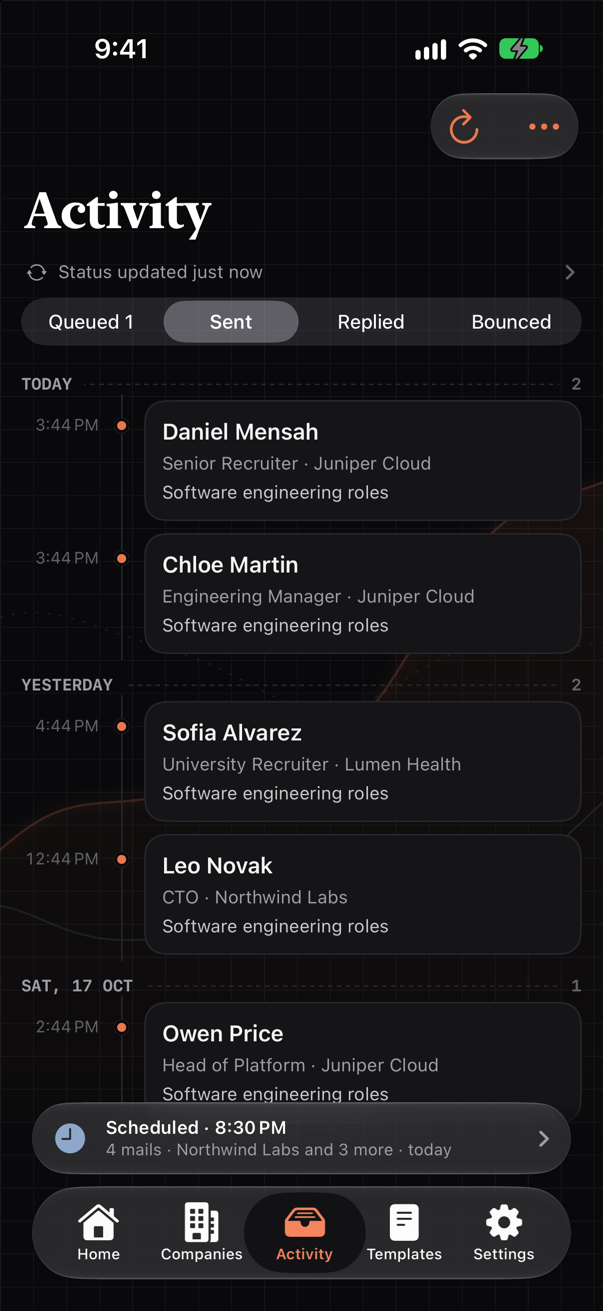
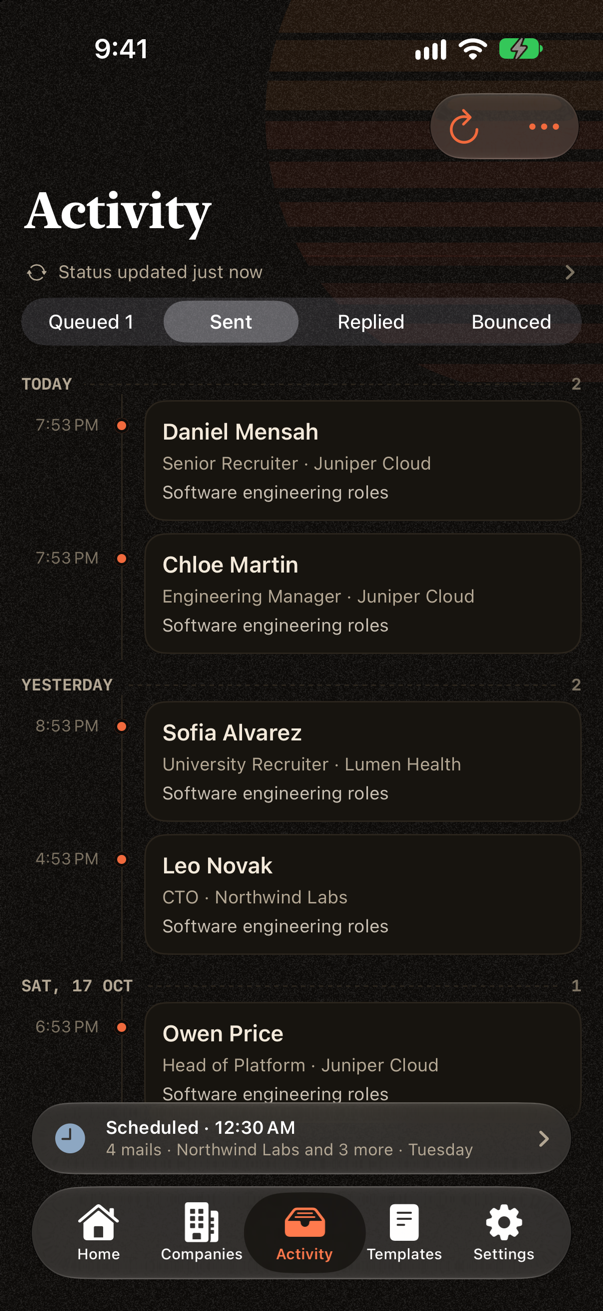
Make Aurora 2.0, retake every screenshot in the new look, and document writing help
- Version 2.0 (build 2) for the app and the Live Activity extension.
- All 15 screenshots retaken from the demo accounts in the retro look,
  plus a new one of writing help with Aurora Writer connected.
- README: a 2.0 badge and "What's new in 2.0", feature rows and a
  section for personalised company lines and writing help through
  Aurora Writer, and the removed scripts/app_icon folder dropped.
- SCREENSHOTS.md: the writing help and Ready to send shots added.

diff --git a/README.md b/README.md
@@ -9,6 +9,7 @@
 </p>
 
 <p align="center">
+  <img alt="Version 2.0" src="https://img.shields.io/badge/version-2.0-E8643A">
   <img alt="iOS 27" src="https://img.shields.io/badge/iOS-27-black?logo=apple">
   <img alt="SwiftUI" src="https://img.shields.io/badge/SwiftUI-Observation-orange?logo=swift">
   <img alt="Supabase" src="https://img.shields.io/badge/backend-Supabase-3ECF8E?logo=supabase&logoColor=white">
@@ -29,6 +30,26 @@ account, and reads the threads back to find replies and bounces. It is a
 SwiftUI app for iOS 27, backed by [Supabase](https://supabase.com), with mail
 sent and read through the Gmail API under Google OAuth.
 
+### What's new in 2.0
+
+- **A new look.** One retro motion-graphics style in place of the themes: a
+  warm black ground under film grain, cream type, a burnt-orange accent, and a
+  striped sun. The launch screen is an ident, and sending plays a short
+  full-screen "Queued" curtain.
+- **Writing help through Aurora Writer.** A shortcut of your own runs Apple
+  Intelligence's Use Model action to proofread, rewrite or draft, and every
+  change is shown word by word before it's applied.
+- **A personalised line per company.** `{Company-Personalised}` puts a
+  sentence you wrote about a company into every mail to people there.
+- **Fresher hiring.** Companies from the Fresher Hiring Ledger are flagged and
+  filterable, with their logos, websites, careers pages, hiring routes, stated
+  packages and the sources behind them.
+- **Sending you can leave.** The queue carries on in the background, never
+  mails anyone twice, and shows one Live Activity from the first mail to the
+  bounce check.
+- **Replies read from new mail only**, with a Status timeline of each check,
+  and **Export Data** to JSON or spreadsheets.
+
 ## Contents
 
 - [Features](#features)
@@ -40,6 +61,7 @@ sent and read through the Gmail API under Google OAuth.
   - [Reply tracking](#reply-tracking)
   - [Bounces](#bounces)
   - [Greetings](#greetings)
+  - [Writing help](#writing-help)
 - [Architecture](#architecture)
 - [Design system](#design-system)
 - [Testing](#testing)
@@ -53,6 +75,8 @@ sent and read through the Gmail API under Google OAuth.
 |---|---|
 | **Companies and contacts** | A company can have several mail domains (`stripe.com`, `stripe.dev`). Adding a contact looks up the domain of their address and suggests the company already on file, so the same company isn't entered twice. |
 | **Templates** | Subject and body with placeholders (`{Receiver-Name}`, `{Receiver-Company}`, `{Sender-College}`, `{Resume-Link}`, …) filled from the contact and your profile. The editor flags misspelled placeholders and ones that would come out blank. A template that names one company in plain text is labelled with it, and compose warns before it goes to anyone else. |
+| **Personalised lines** | A sentence of your own for each company ("I've been following Juniper's move to edge regions…"), written on the company's page. `{Company-Personalised}` puts it into mails to anyone there; a company without one gets the mail without it. |
+| **Writing help** | The sparkles button in the template, mail and company-line editors: Proofread, Rewrite, Friendlier, Professional, Shorter, Expand, your own instruction, or a first draft of a company line. It runs through **Aurora Writer**, a shortcut you make once, and every answer is shown as a word-by-word change to keep or throw away, with Undo after. Placeholders are checked on the way back. See [Writing help](#writing-help). |
 | **Greetings** | "Hi {Receiver-Name}," greets people by a name that's plainly there: the contact's name field, the name they signed a reply with, what your own mail calls their address, or an address that spells the given name out (`anjali.kumari@`). Nothing is guessed: otherwise the mail opens with a plain "Hi," and the app shows "Name not detected". See [Greetings](#greetings). |
 | **Compose** | One screen per batch: who it's going to, a row of templates, and a swipeable deck of the actual mails. Any mail can be edited by hand or moved to another template. Batches have no size limit. |
 | **Mail queue** | Sends go into a queue saved on the phone. It survives the app closing, can be paused and resumed, and can hold batches scheduled for later. When Gmail rate-limits a send or the connection drops, the queue waits and carries on by itself. Nobody is ever mailed twice: a mail Gmail may already have is looked for in Sent before it can go again, and tests interrupt the queue at every stage to prove it. |
@@ -660,6 +684,38 @@ never count. The catalog follows the same rule: a contact whose name can't be
 read this way has an empty name field, the "name not detected" state (see
 [`verify_names.py`](scripts/company_verification/README.md#name-pass-verify_namespy)).
 
+### Writing help
+
+<p align="center">
+  <img src="docs/screenshots/writing-help.png" alt="Writing help on a template, with Aurora Writer connected" width="300">
+</p>
+
+All written text comes from **Aurora Writer**, a shortcut in the Shortcuts app
+that the user makes once (Settings → Help has the steps, and writing help
+links to them until it's connected). It's a Use Model action set to Apple
+Intelligence's Cloud model, fed the shortcut's input and ending in Stop and
+Output. The app's own on-device generation and the system's Writing Tools were
+both tried and dropped: the small model copied its examples and lost
+greetings, and Writing Tools changed text with no review. Writing Tools are
+now turned off app-wide.
+
+A request goes out as an x-callback-url (`ShortcutsWriter`). Shortcuts runs
+it and opens `aurora://writing/<id>/done?result=…` with the answer, and the
+Dynamic Island shows the request as writing while Aurora is behind Shortcuts.
+Coming back with nothing sent back gives the request up with a reason ("Didn't
+send an answer back"), and the setup screen's Test the Shortcut runs one
+request end to end so a wrong name or missing step shows up before it's used.
+
+`WritingAssistant` tells the model where the text goes (a template that goes
+to many recruiters, one mail, or a company line) and what must survive. Each
+preset says what to keep as well as what to change, since a bare "rewrite"
+drops greetings and invents subject lines. An answer that loses or renames a
+`{placeholder}` is sent back once with the list it must keep, and refused if it
+still doesn't. What comes back is shown as a word-by-word comparison
+(`ChangeComparison`) to keep or discard, and a kept change can be undone until
+the text is edited again. `Tests/WritingActionTests.swift` and
+`Tests/TextDiffTests.swift` cover the rules and the comparison.
+
 ## Architecture
 
 | Layer | Where |
@@ -750,14 +806,13 @@ notice. The Python scripts below have their own `unittest` suites.
 |---|---|
 | [`scripts/fresher_ledger/`](scripts/fresher_ledger/README.md) | Imports the Fresher Hiring Ledger: matches each of its companies to the catalog (or adds it), flags it, and loads its links, routes and sources; crawls company websites for logos and careers pages. Dry run first; backs up before writing. |
 | [`scripts/company_verification/`](scripts/company_verification/README.md) | Checks and repairs the shared catalog: one company per mail domain, typo and dead domains, and names and greetings, and imports recruiter spreadsheets after verifying them. Backs up before every change. |
-| `scripts/app_icon/make_icon.swift` | Draws the app icon, one rising curve from rose to amber with a glow behind it, and its tinted variant. Usage is at the top of the file. |
-| `scripts/app_icons/make_icons.swift` | Draws the app icon and the README logo from the app's mark. |
+| `scripts/app_icons/make_icons.swift` | Draws the app icon (light, dark and tinted) and the README logo from the app's mark, a dawn with a rising line. |
 
 ## Project layout
 
 ```
 Aurora/
-├─ AuroraApp.swift             App entry; installs the notification delegate
+├─ AuroraApp.swift             App entry; installs the notification delegate, turns Writing Tools off
 ├─ AppConfig.swift             Supabase + Google OAuth configuration
 ├─ Models/                     Stores, Supabase/Gmail access, mail queue, reply sync, greetings
 ├─ Views/                      SwiftUI screens
@@ -768,7 +823,6 @@ Shared/                        Code compiled into both the app and the extension
 Tests/                         Standalone Swift test programs
 scripts/fresher_ledger/        Fresher Hiring Ledger import and website crawl (Python)
 scripts/company_verification/  Catalog verification pipeline (Python)
-scripts/app_icon/              Draws the app icon (Swift, Core Graphics)
 scripts/app_icons/             Draws the app icon from the mark (Swift)
 docs/screenshots/              Screenshots used in this README and SCREENSHOTS.md
 ```

diff --git a/SCREENSHOTS.md b/SCREENSHOTS.md
@@ -1,12 +1,12 @@
 # Screenshots
 
-Taken from a demo account. The companies, people and replies are made up.
+Aurora 2.0, taken from a demo account. The companies, people and replies are made up.
 Back to the [README](README.md).
 
 <table>
   <tr>
     <td align="center" width="50%"><img src="docs/screenshots/home.png" alt="Home" width="300"><br><sub><b>Home.</b> Tracked companies, and a scheduled batch on the shelf.</sub></td>
-    <td align="center" width="50%"><img src="docs/screenshots/company.png" alt="Company" width="300"><br><sub><b>Company.</b> Its mail domains, counts, and contacts split into Valid and Invalid; one with no name says so.</sub></td>
+    <td align="center" width="50%"><img src="docs/screenshots/company.png" alt="Company" width="300"><br><sub><b>Company.</b> Its mail domain, counts, the personalised line, and contacts split into Valid and Invalid; one with no name shows its address.</sub></td>
   </tr>
   <tr>
     <td align="center" width="50%"><img src="docs/screenshots/compose.png" alt="Compose" width="300"><br><sub><b>Compose.</b> Recipients, a row of templates, and a deck of the actual mails.</sub></td>
@@ -27,5 +27,9 @@ Back to the [README](README.md).
   <tr>
     <td align="center" width="50%"><img src="docs/screenshots/status.png" alt="Status" width="300"><br><sub><b>Status.</b> The latest check as a timeline: done, running, still to come.</sub></td>
     <td align="center" width="50%"><img src="docs/screenshots/live-activity-lock.png" alt="Live Activity on the Lock Screen" width="300"><br><sub><b>Lock Screen.</b> The company the mail is going to, and who.</sub></td>
+  </tr>
+  <tr>
+    <td align="center" width="50%"><img src="docs/screenshots/writing-help.png" alt="Writing help" width="300"><br><sub><b>Writing help.</b> Aurora Writer connected, what the text is for, and a box to say what to change.</sub></td>
+    <td align="center" width="50%"><img src="docs/screenshots/live-activity-scheduled.png" alt="A scheduled batch ready to send" width="300"><br><sub><b>Ready to send.</b> A scheduled batch whose time has come, with Send Now.</sub></td>
   </tr>
 </table>
